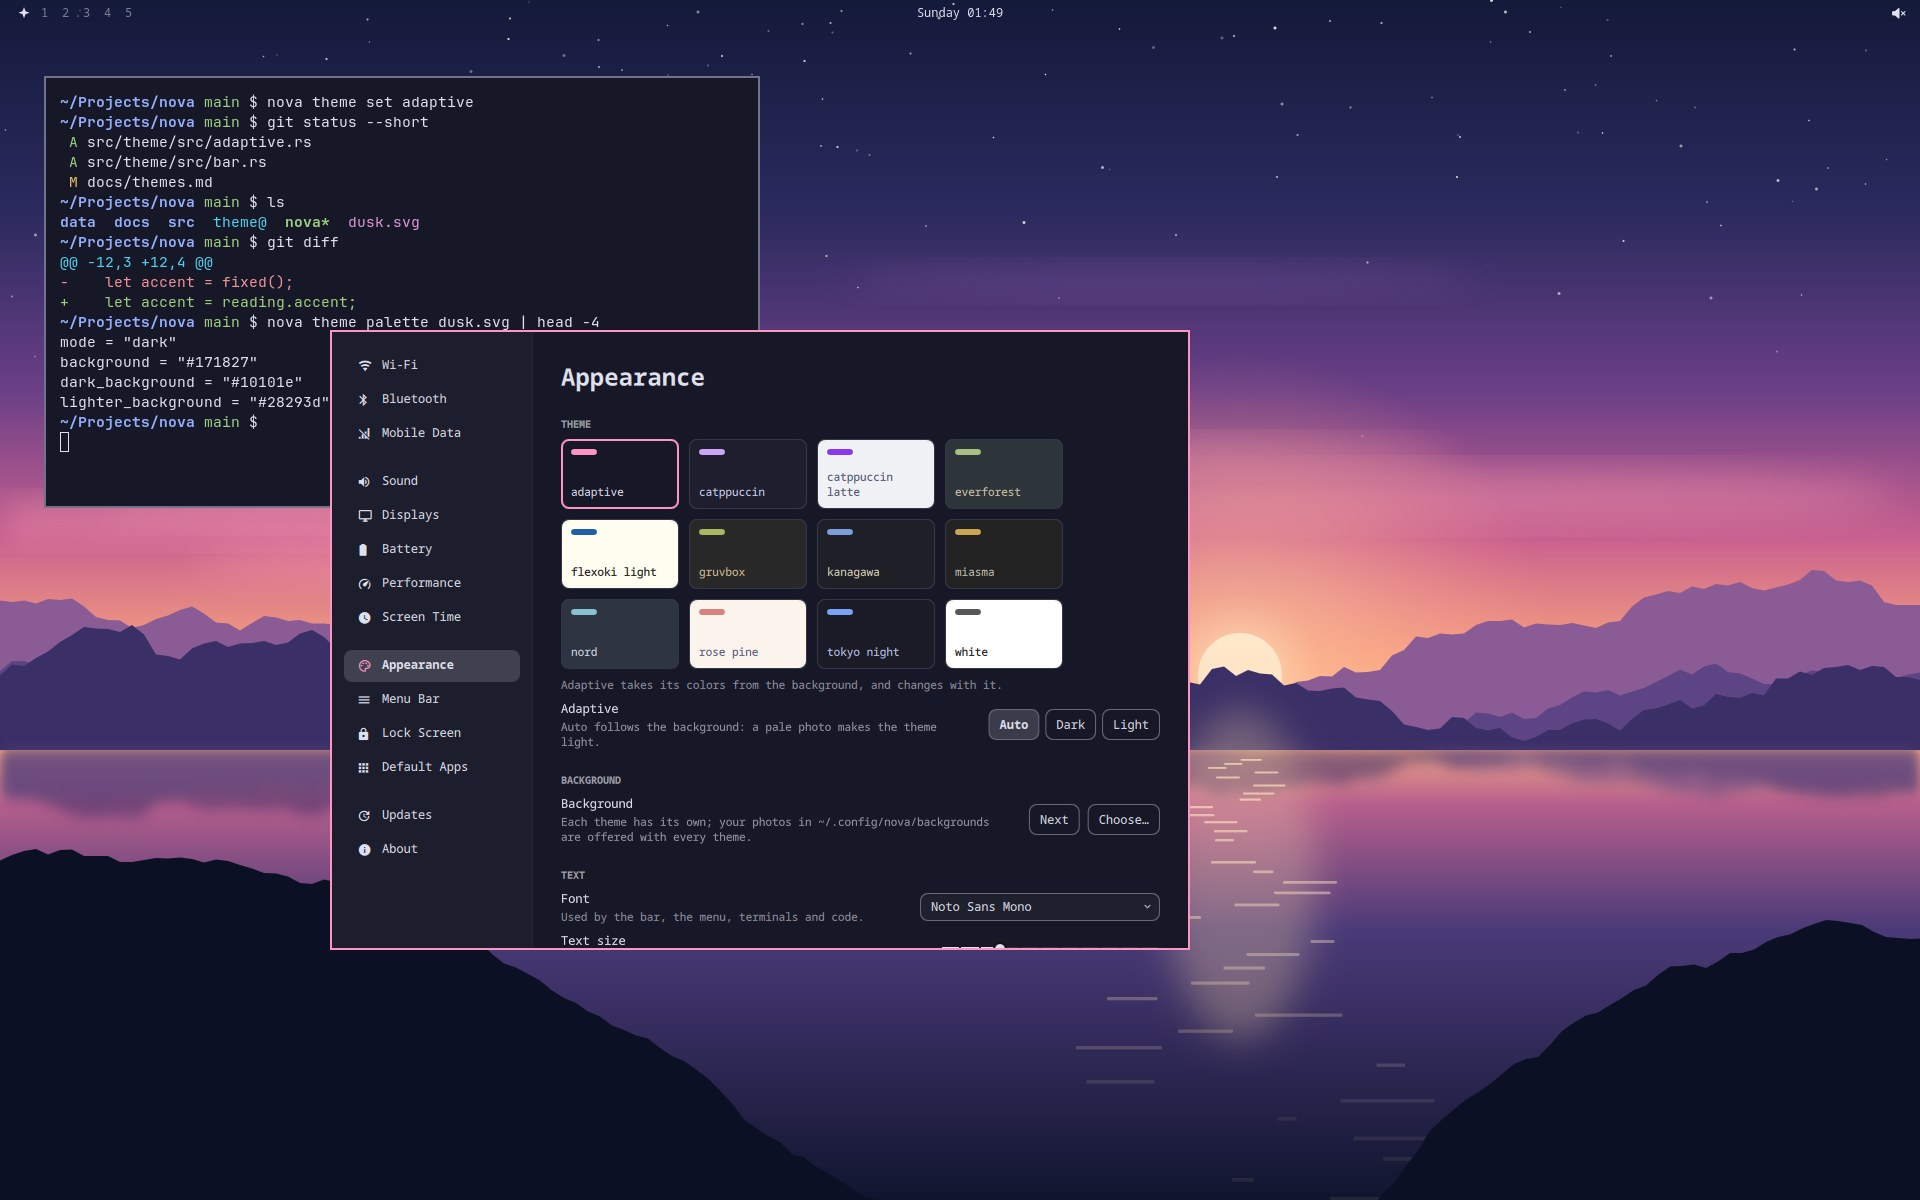
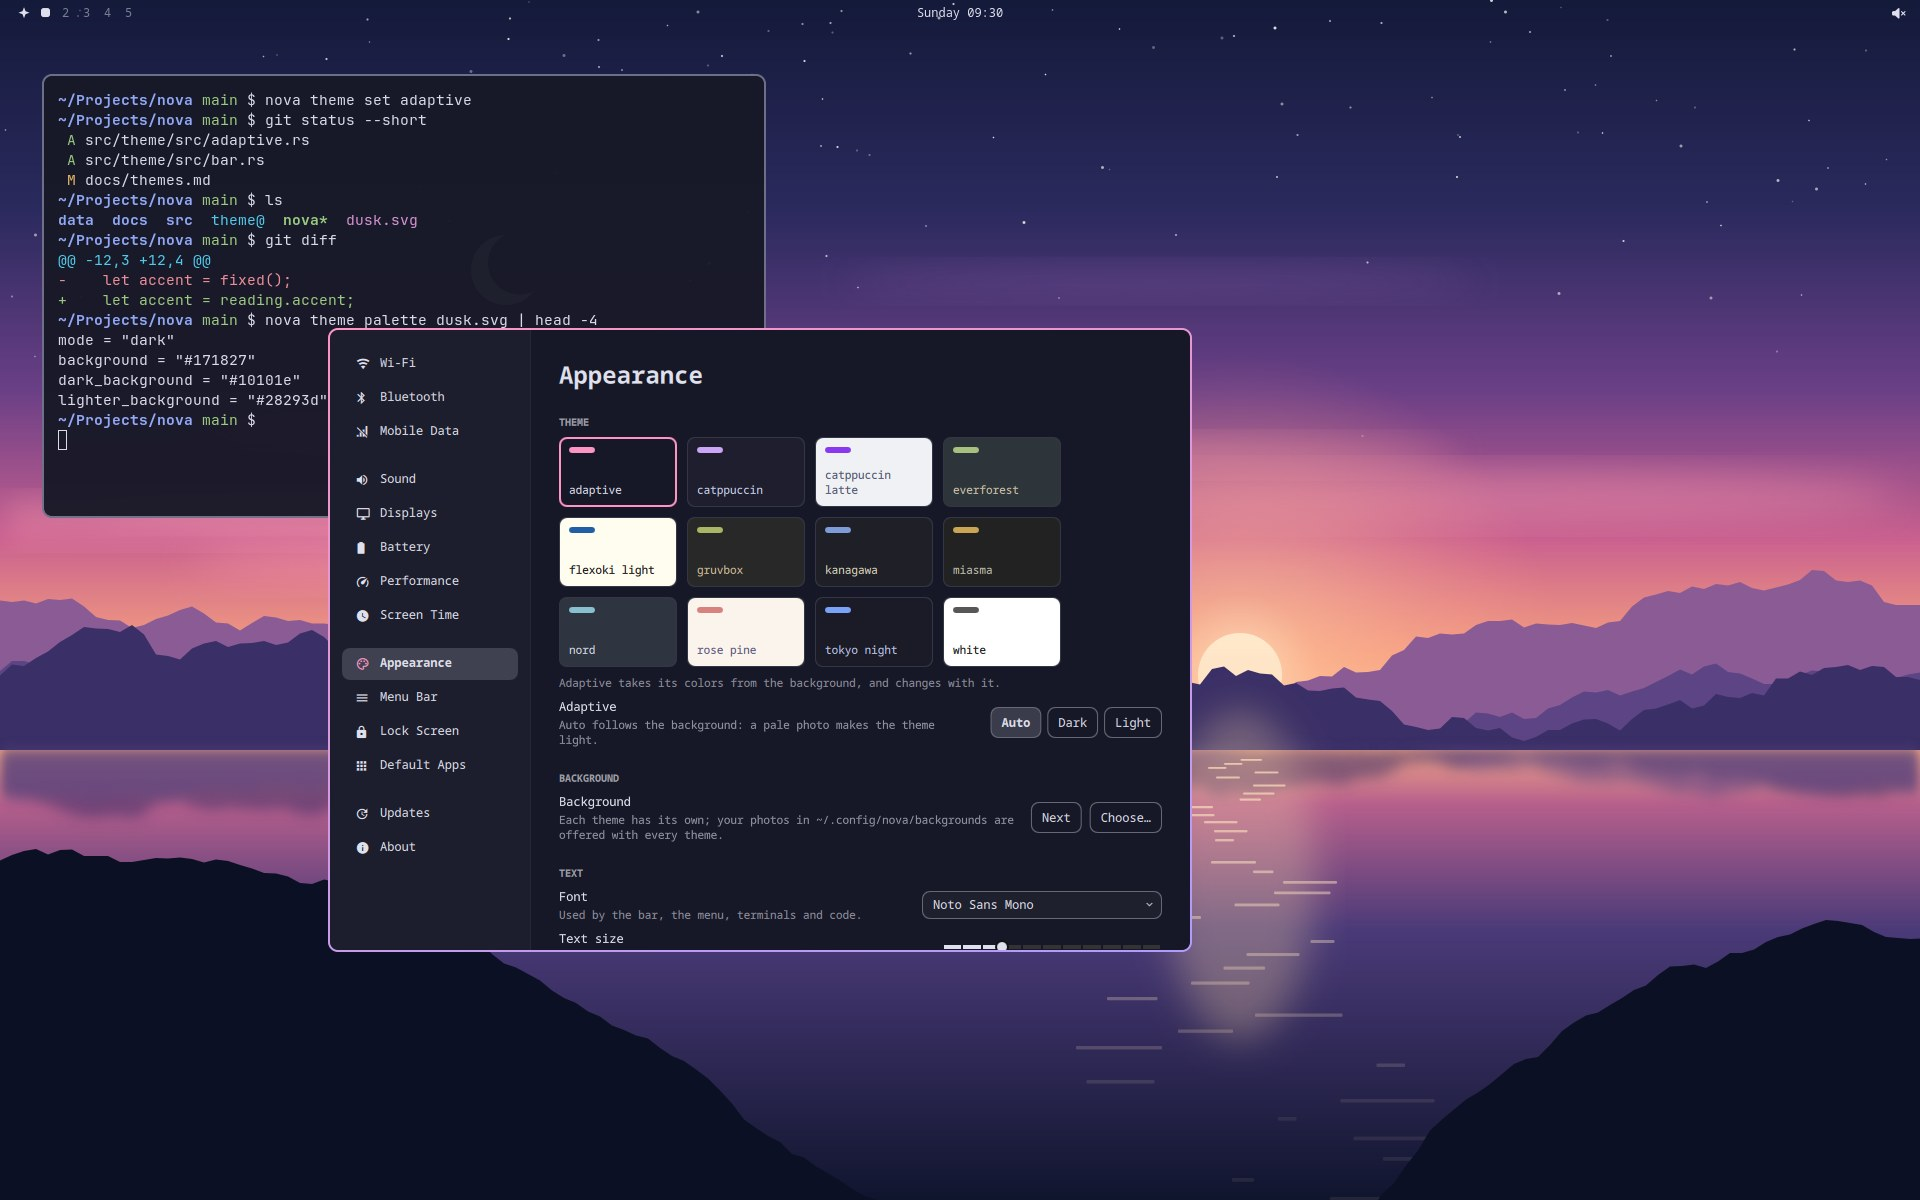
docs(images): the pictures are taken on Hyprland, so the windows have Nova's round corners and borders
The pictures were taken under a headless sway, which frames a window with a
plain square border: the terminal, Settings and the Calendar in them looked
like no window on Nova does, and read as pictures of an older version.

tools/screenshots now runs the shell on a Hyprland of its own, loaded with
Nova's look, behaviour and window rules (data/hypr) and the theme's borders,
so the corners, the gradient border of each theme and the terminal's slight
see-through are Hyprland's own drawing. The bar's workspaces are live too.
Hyprland has no headless mode and will not nest in sway (sway offers
xdg_wm_base 5, Hyprland's backend binds 6), so it is a window of a headless
labwc, sized with wlr-randr.

What the session started is now stopped however it ends: the first run here
failed halfway and left its compositors behind. lspci is stubbed, since
Hyprland lists the graphics cards with it as it starts, which woke the
laptop's sleeping NVIDIA card once (runtime_status active, then suspended
again); with the stub it stayed suspended through two runs. Hyprland's own
XWayland is off, and GIO is kept from starting gvfs and dconf in the session.

diff --git a/README.md b/README.md
@@ -82,7 +82,7 @@ make DESTDIR=/tmp/nova-root install    # the nova package's files, into a scratc
 
 Packages and ISOs are built only by CI. Start with [the architecture](docs/ARCHITECTURE.md), the contract every component follows; [the documentation's index](docs/README.md) lists the rest.
 
-The pictures are of the shell itself, taken by `tools/screenshots` over a background drawn for them (`docs/images/dusk.svg`, by `tools/draw-dusk`). They run under a headless sway, so the windows float with a plain, square border where Nova tiles them and rounds their corners.
+The pictures are of the shell itself, taken by `tools/screenshots` over a background drawn for them (`docs/images/dusk.svg`, by `tools/draw-dusk`). They are taken off-screen on a Hyprland of their own, with Nova's look and window rules, so the windows are drawn as Nova draws them; they float, to leave the background in view, where Nova tiles them.
 
 ## License
 
